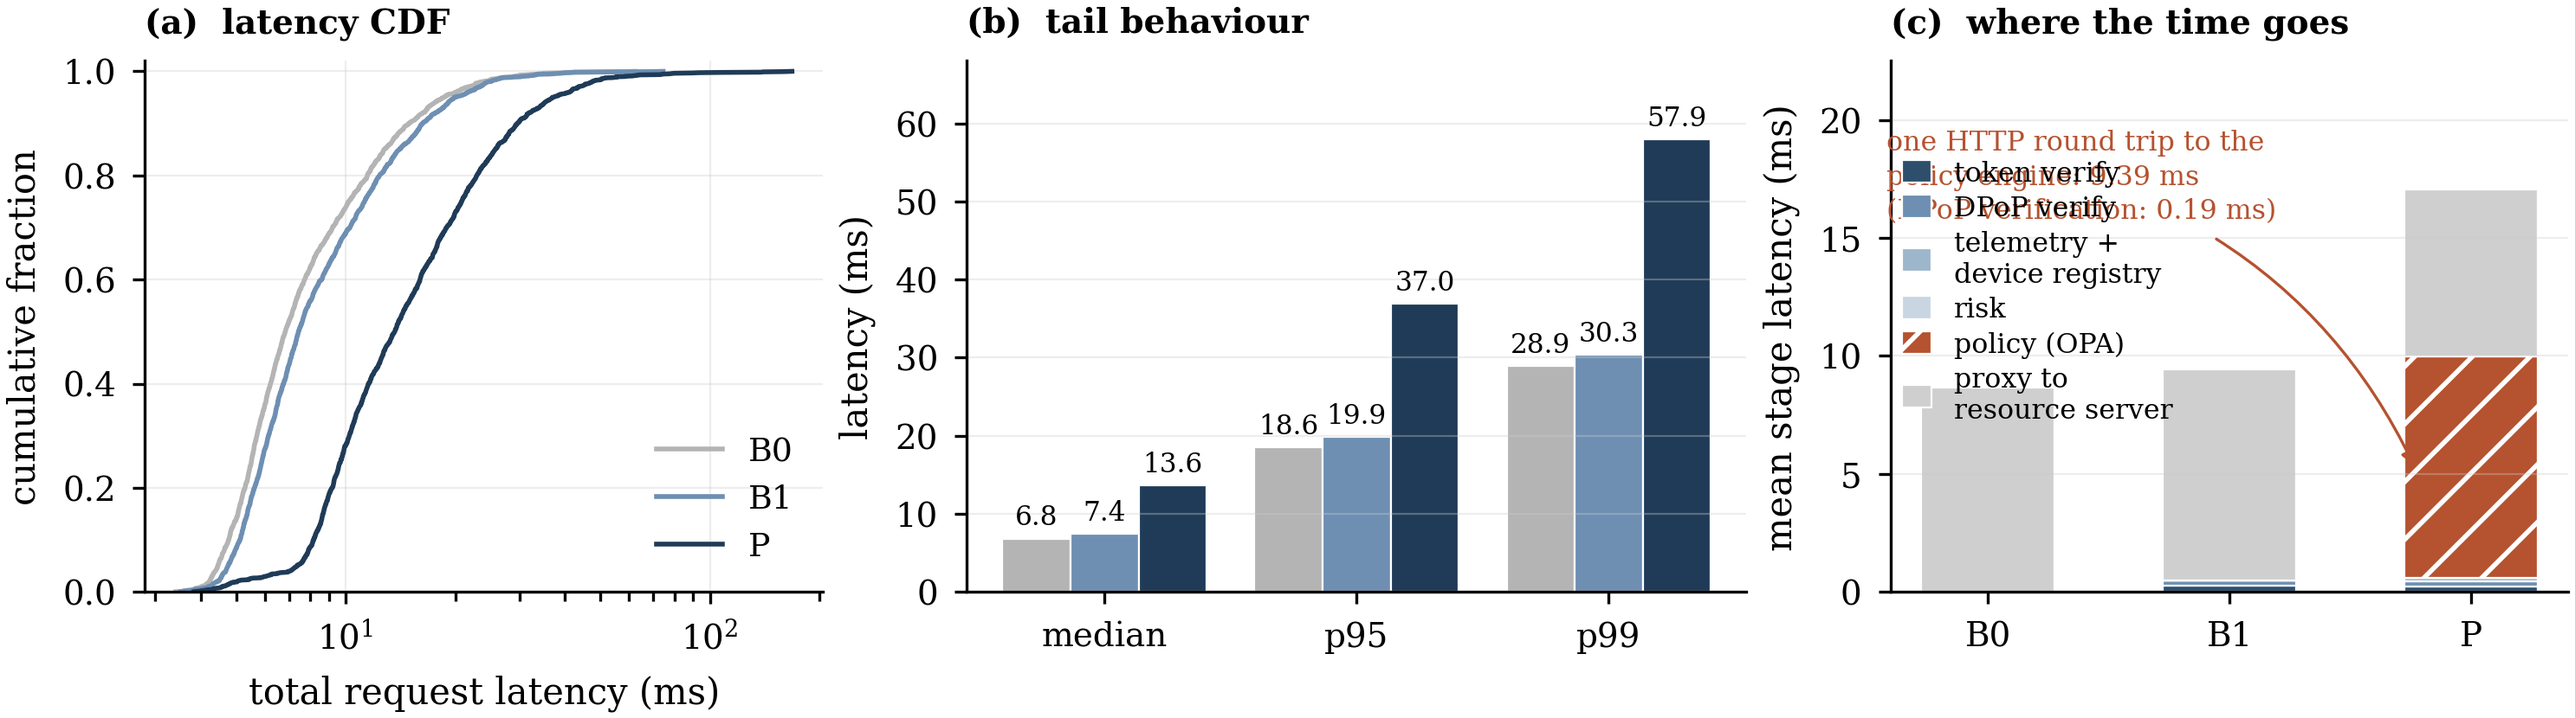
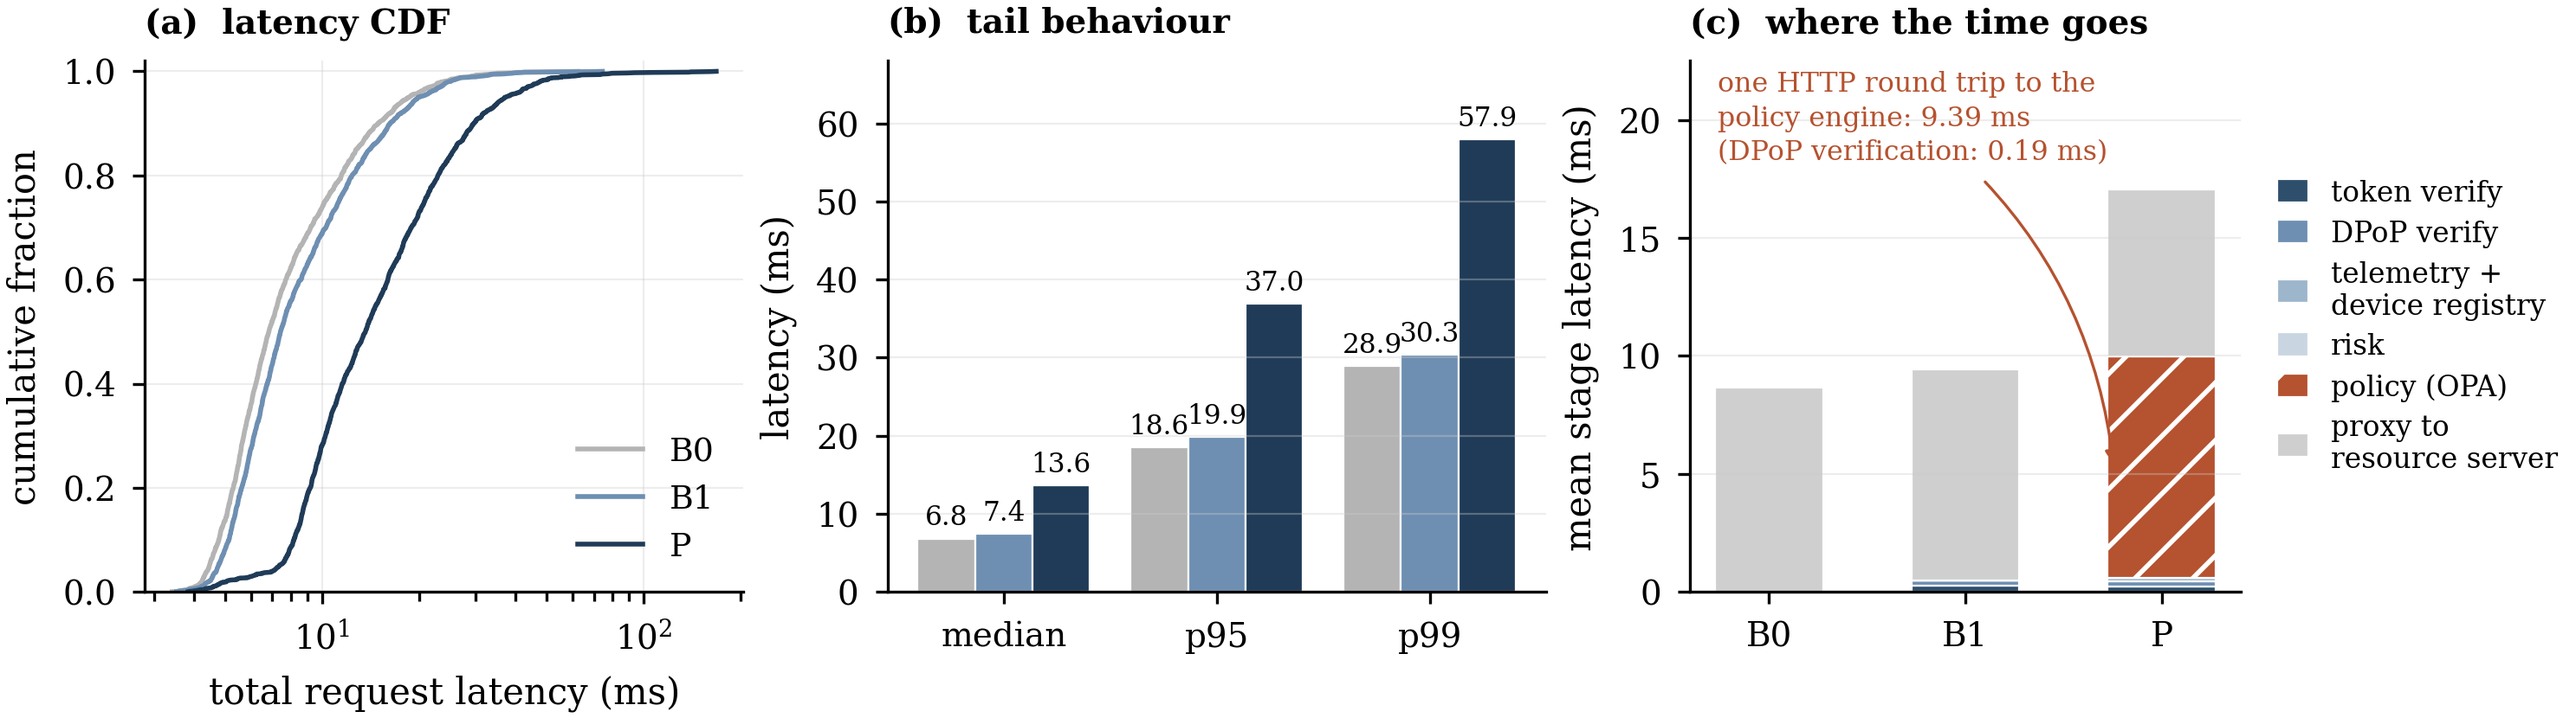
Close the last gaps: uncited references, a clipped figure legend
Two references were listed and never cited, which is exactly the kind of thing a
reference list is supposed not to contain. Both are genuinely relevant and are
now cited where they belong: RFC 9700 in the FAPI 2.0 background, as the general
OAuth guidance the profile tightens, and RFC 9068 where the implementation
explains why the controller can verify tokens locally against the JWKS rather
than by introspection -- which is why token verification costs 0.25 ms rather
than a second network round trip, and therefore part of why the cost
decomposition lands where it does.

Checked mechanically rather than by eye: every bracketed citation in the body
resolves to an entry, and every entry is cited.

In fig7(c) the stage legend and the annotation had grown into each other; the
legend moves outside the axes.

diff --git a/analysis/paper_figures.py b/analysis/paper_figures.py
@@ -714,7 +714,7 @@ def fig7_latency():
     legit = legit[legit["_ts"] >= start + pd.Timedelta(seconds=5)]
 
     fig, axes = plt.subplots(1, 3, figsize=(COL2, 2.15),
-                             gridspec_kw={"width_ratios": [1.0, 1.15, 1.0]})
+                             gridspec_kw={"width_ratios": [1.0, 1.10, 0.92]})
 
     ax = axes[0]
     for cfg in CONFIGS:
@@ -760,15 +760,15 @@ def fig7_latency():
         bottoms += vals
     ax.set_ylabel("mean stage latency (ms)")
     ax.set_ylim(0, 22.5)
-    ax.legend(loc="upper left", bbox_to_anchor=(-0.02, 0.86), fontsize=5.7,
-              labelspacing=0.30, handlelength=1.1, handleheight=0.9)
+    ax.legend(loc="center left", bbox_to_anchor=(1.02, 0.5), fontsize=5.9,
+              labelspacing=0.45, handlelength=1.1, handleheight=0.9)
     ax.grid(axis="y", alpha=0.35)
     ax.set_title("(c)  where the time goes", loc="left", fontsize=7.0, weight="bold")
     pol = float(t3.at["P", "mean_policy_ms"])
     dpop = float(t3.at["P", "mean_dpop_verify_ms"])
     ax.annotate(f"one HTTP round trip to the\npolicy engine: {pol:.2f} ms\n"
                 f"(DPoP verification: {dpop:.2f} ms)",
-                xy=(1.78, 5.0), xytext=(-0.42, 19.6), fontsize=5.7,
+                xy=(1.76, 5.0), xytext=(-0.26, 22.1), fontsize=5.7,
                 color=C_ACCENT, ha="left", va="top", linespacing=1.35,
                 arrowprops=dict(arrowstyle="-|>", color=C_ACCENT, lw=0.6,
                                 shrinkA=2, shrinkB=2,

diff --git a/paper/manuscript.md b/paper/manuscript.md
@@ -53,7 +53,7 @@ DPoP [11] binds an access token to a client-held key pair. The client generates 
 
 ### 2.2 FAPI 2.0
 
-The FAPI 2.0 Security Profile [7] composes PAR [8], PKCE with S256 [9], sender-constrained access tokens by mTLS or DPoP, short-lived access tokens and refresh-token rotation, and applies to confidential clients. It has been subject to formal analysis conducted alongside its standardization [4]. It is the appropriate comparator for any contemporary Open Banking security claim: a proposal evaluated only against plain bearer OAuth [20] measures the value of the standard, not the value of the proposal.
+The FAPI 2.0 Security Profile [7] composes PAR [8], PKCE with S256 [9], sender-constrained access tokens by mTLS or DPoP, short-lived access tokens and refresh-token rotation, and applies to confidential clients. It sits on top of, and tightens, the general OAuth 2.0 security guidance of RFC 9700 [25], which recommends sender-constraining but does not mandate it. It has been subject to formal analysis conducted alongside its standardization [4]. It is the appropriate comparator for any contemporary Open Banking security claim: a proposal evaluated only against plain bearer OAuth [20] measures the value of the standard, not the value of the proposal.
 
 What FAPI 2.0 does *not* address is equally important for this paper. Sender-constraining is a statement about key possession, not about who is holding the key or how they are behaving. An adversary executing on the enrolled device can invoke the key and produce proofs that are correct in every respect. An adversary who has obtained the account's credentials can run the token flow themselves, in which case the authorization server issues them a token bound to *their own* key and every FAPI 2.0 check passes on its own terms. These two adversaries define the regime in which a contextual layer is the only remaining defence, and they are the regime this paper measures.
 
@@ -232,7 +232,7 @@ Across B1 and P, possession of an access token alone is never sufficient: a vali
 
 The testbed is four containerized services on a single private bridge network, brought up by one command.
 
-**Identity provider.** Keycloak 26.4.4, two realms imported at startup. `openbanking-fapi2` carries the FAPI 2.0 DPoP client policy profile and a confidential client with DPoP-bound access tokens and a 300-second lifetime; `openbanking-b0` carries a public client with no sender-constraining, used only for B0. A hardcoded-claim protocol mapper pins the `sub` claim of issued tokens to the identifier of synthetic resource-server user 0, so that the identity the identity provider authenticates and the identity the resource server owns objects for are the same principal. The issuer hostname is fixed so that tokens obtained from the host and tokens verified inside the network carry the same `iss`.
+**Identity provider.** Keycloak 26.4.4, two realms imported at startup. Access tokens are JWTs following the RFC 9068 profile [26], which is what lets the controller verify them locally against the realm's JWKS rather than by introspection — a choice that matters for the cost decomposition in §9.9, since token verification costs 0.25 ms rather than a second network round trip. `openbanking-fapi2` carries the FAPI 2.0 DPoP client policy profile and a confidential client with DPoP-bound access tokens and a 300-second lifetime; `openbanking-b0` carries a public client with no sender-constraining, used only for B0. A hardcoded-claim protocol mapper pins the `sub` claim of issued tokens to the identifier of synthetic resource-server user 0, so that the identity the identity provider authenticates and the identity the resource server owns objects for are the same principal. The issuer hostname is fixed so that tokens obtained from the host and tokens verified inside the network carry the same `iss`.
 
 **Zero Trust controller.** A FastAPI reverse proxy (Python 3.12) implementing the six-stage pipeline of Figure 3 as separate modules: `token_verify`, `dpop_verify`, `telemetry`, `device_registry`, `risk`, `policy_client`, `proxy`. Thumbprints follow RFC 7638; ES256 verification uses the `cryptography` library directly against the JWK embedded in the proof; the `jti` replay cache is an in-memory TTL cache sized at 100 000 entries. Each stage is timed with a monotonic clock and every request emits one JSON record carrying the stage timings, the check outcomes, the telemetry values, the rules that fired, the risk score, the decision and — for attack traffic — a ground-truth label that no enforcement decision reads (§8.4).
 
